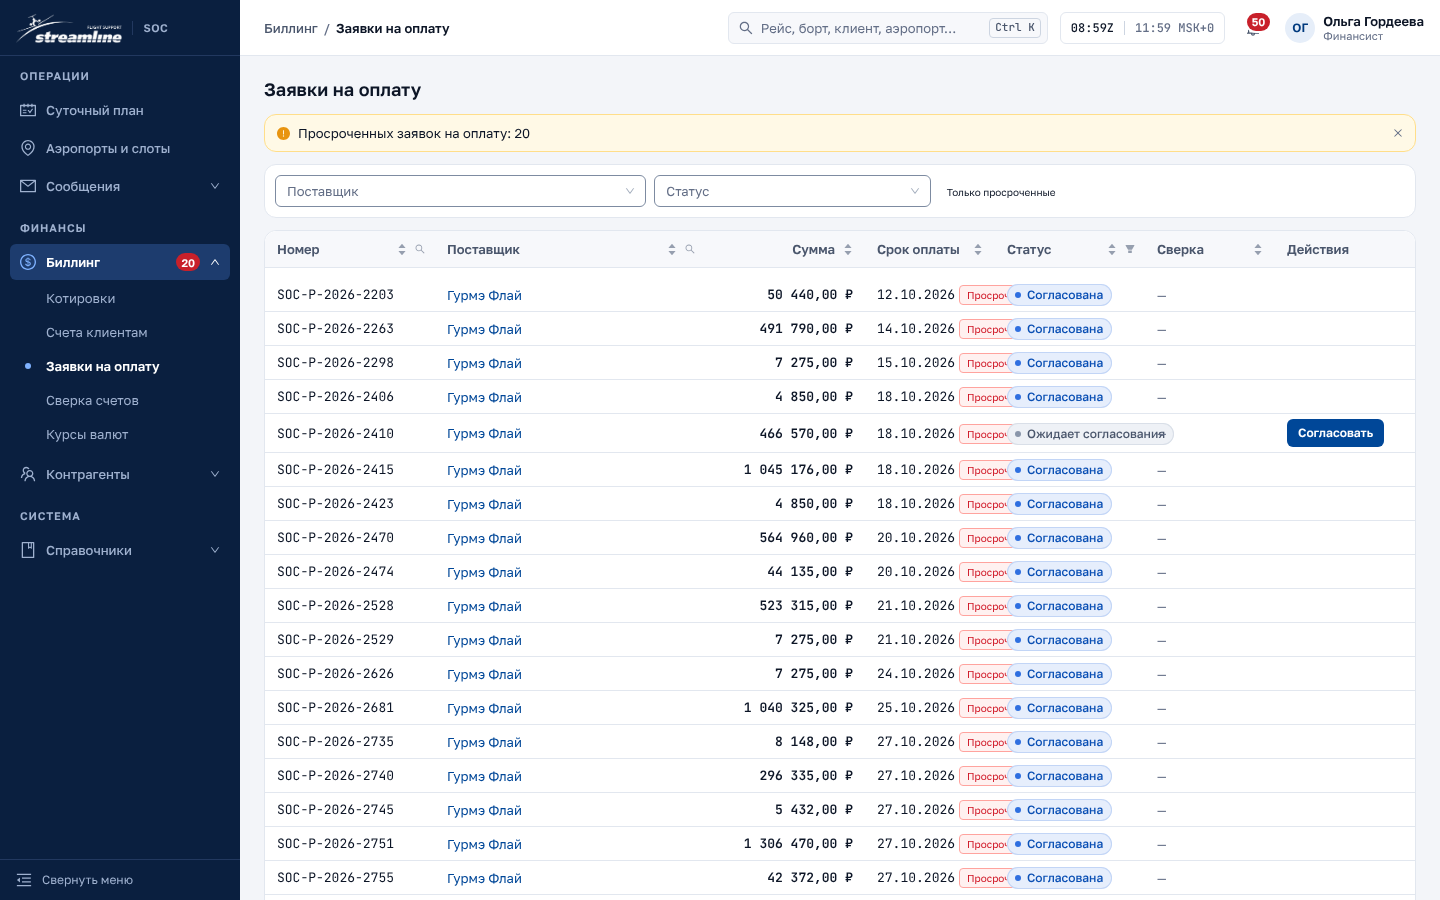
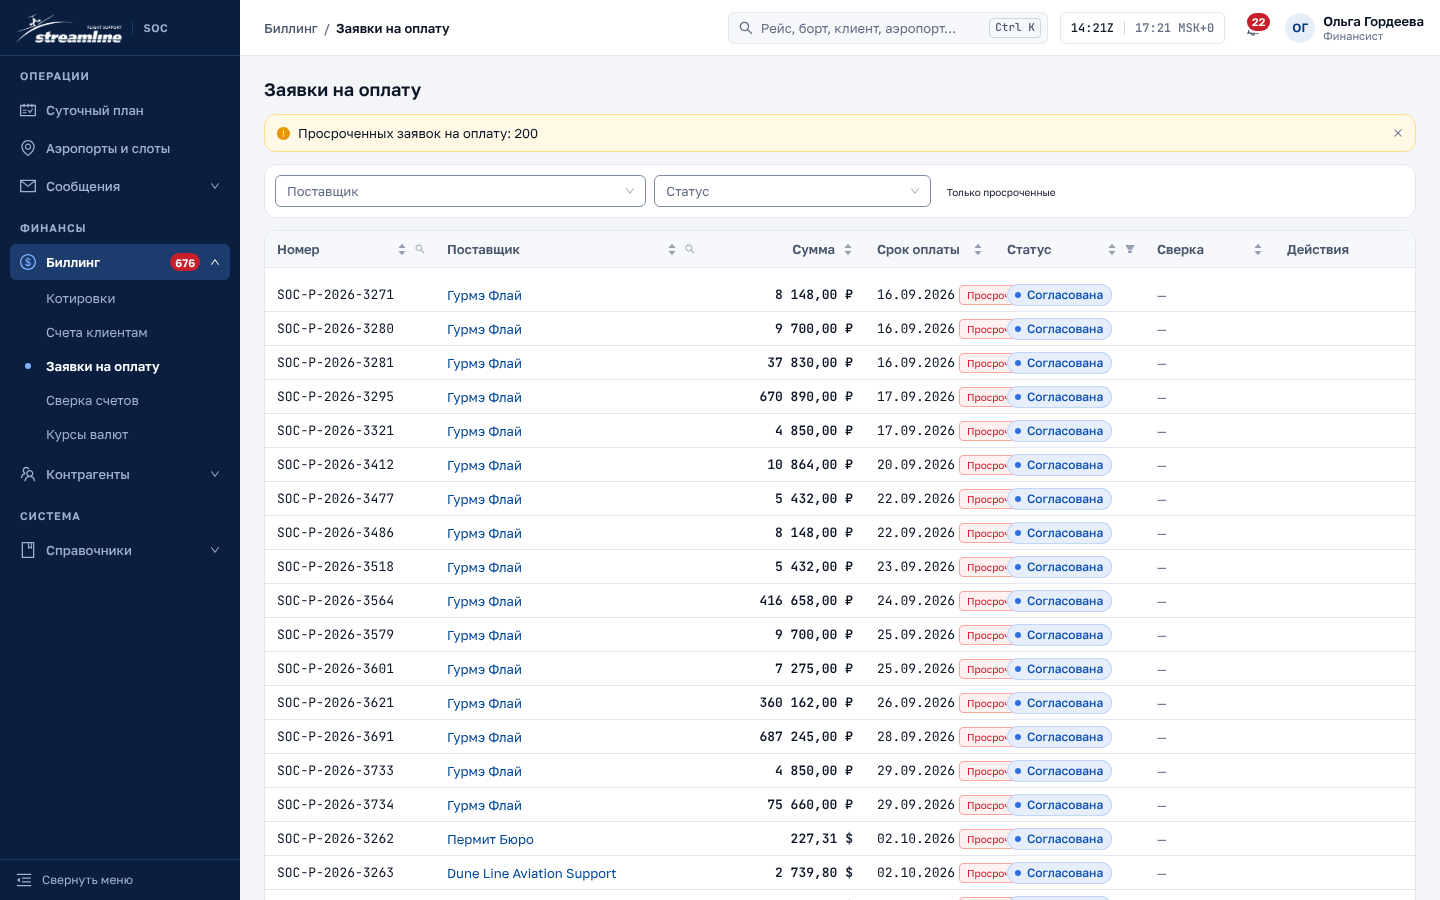
docs(manuals): история набора за восемь недель, снимки экранов пересняты
Снимки сняты e2e/manuals.spec.ts со стенда после пересоздания набора;
integrations.png — прежний, с установки с подключениями.

diff --git a/docs/manuals/user-guide.md b/docs/manuals/user-guide.md
@@ -37,7 +37,7 @@ SOC — единая диспетчерская платформа для ком
 **Компании, сотрудники, рейсы, договоры и суммы в ней вымышлены**; настоящие
 только справочные сведения — коды аэропортов, типы воздушных судов, валюты —
 и курсы Банка России. Данные построены относительно даты установки: история
-за последний месяц и план на две недели вперёд. Все расчёты, проверки
+за последние восемь недель и план на две недели вперёд. Все расчёты, проверки
 и статусы на экранах выполнены системой по этим данным.
 
 Учётные записи демонстрации и пароль приведены в «Инструкции по установке».

diff --git a/docs/manuals/install-guide.md b/docs/manuals/install-guide.md
@@ -36,7 +36,7 @@ lang: ru
 - Настоящие только общедоступные справочные сведения: коды и координаты
   аэропортов, типы воздушных судов, коды валют. Курсы валют — официальные
   курсы Банка России.
-- Данные строятся относительно даты установки: история за последние 30 дней
+- Данные строятся относительно даты установки: история за последние 8 недель
   и план на 14 дней вперёд. Система выглядит работающей «сегодня» в любой
   день установки.
 - Записи генератора помечены в базе и удаляются одной командой. Частью набора
